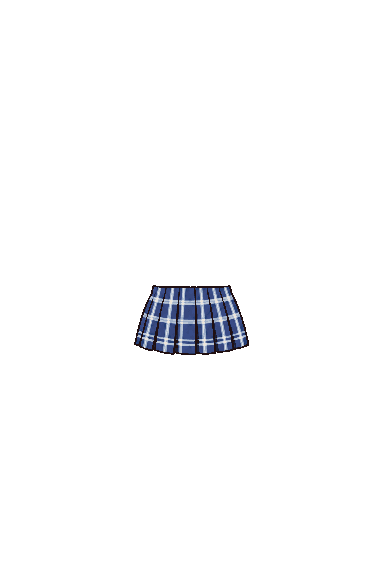
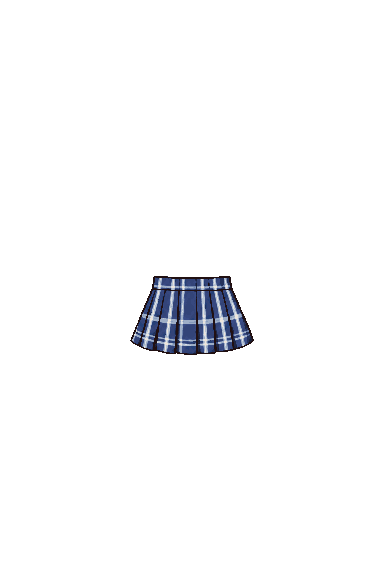
1番のスカートに、ウエストを一周するチェックの帯をつける（v0.10.189）

Changed region(s): [[0.3438, 0.4688, 0.6562, 0.625]]

diff --git a/app/sw.js b/app/sw.js
@@ -1,6 +1,6 @@
 // オフライン対応：アプリ本体と絵を端末に保存して、電波がなくても開けるようにする
 // 版を上げるときは VERSION を変える（古い保存は消える）
-const VERSION = 'tabiquest-v0.10.188';
+const VERSION = 'tabiquest-v0.10.189';
 const CORE = [
   './', 'index.html', 'manifest.json', 'css/app.css', 'vendor/three.r128.min.js',
   'js/main.js', 'js/card.js', 'js/places.js', 'js/photo_places.js', 'js/plain_places.js', 'js/store.js', 'js/geo.js', 'js/conditions.js', 'js/ui.js', 'js/arrival.js', 'js/zukan.js', 'js/debug.js', 'js/mihon.js',

diff --git a/app/js/main.js b/app/js/main.js
@@ -50,7 +50,7 @@ import * as scramble from './scenes/scramble.js';
 import * as kamakura from './scenes/kamakura.js';
 import * as photo from './scenes/photo.js';
 
-export const VERSION = '0.10.188';
+export const VERSION = '0.10.189';
 engine.register('minatomirai', minatomirai.build);
 engine.register('chukagai', chukagai.build);
 engine.register('tokyotower', tokyotower.build);
